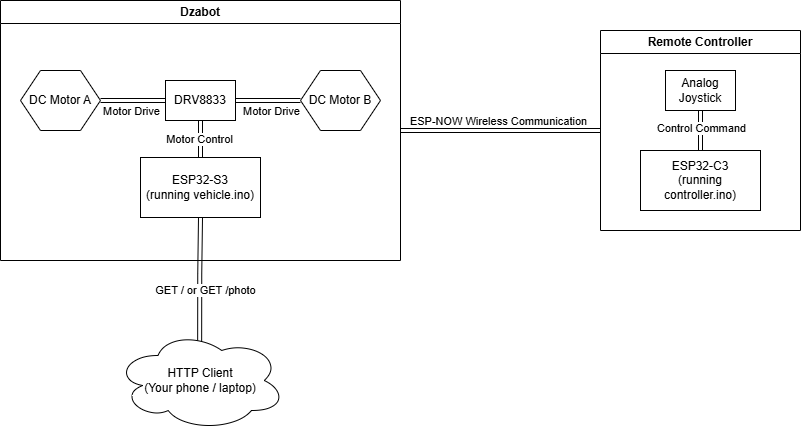
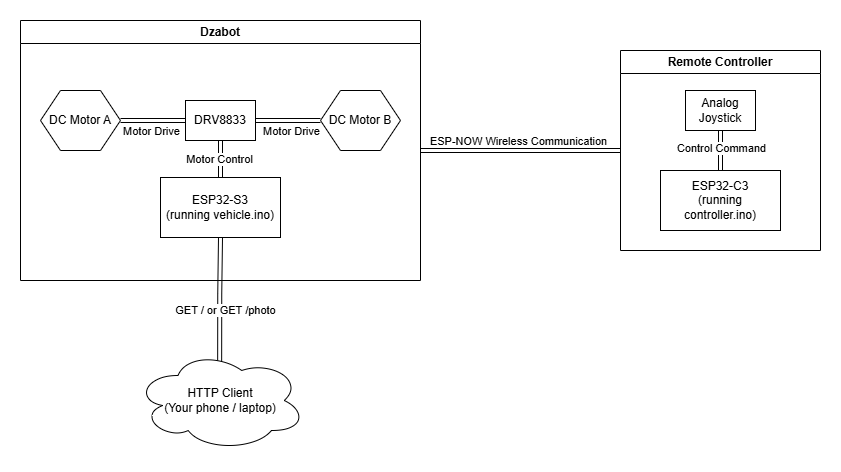
feat: update docs

diff --git a/README.md b/README.md
@@ -4,13 +4,15 @@ This repository contains a firmware for my hand-crafted robot together with the 
 
 ## Components
 
-- ESP32-S3 with OV5640 camera module   -> main computing unit on the robot
-- DRV8833 motor driver                 -> controlling 2 DC motors (rear-wheel drive)
-- 5x electrolytic capacitor 100uF      -> smoothing out the WiFi transmission current requirements
-- 4x 1.5V batteries + battery pack     -> power supply for both the MCU and driver
-- Analog joystick                      -> Input device for the robot control
-- ESP32-C3                             -> computing unit in the wireless controller
-- Jumper Wires + soderless breadboard  -> wiring and physical / electrical connections between the components
+| Component | Purpose |
+|---|---|
+| ESP32-S3 with OV5640 camera module | Main computing unit on the robot |
+| DRV8833 motor driver | Controlling 2 DC motors (rear-wheel drive) |
+| 5x electrolytic capacitor 100µF | Smoothing out the WiFi transmission current requirements |
+| 4x 1.5V batteries + battery pack | Power supply for both the MCU and driver |
+| Analog joystick | Input device for the robot control |
+| ESP32-C3 | Computing unit in the wireless controller |
+| Jumper wires + solderless breadboard | Wiring and physical/electrical connections between the components |
 
 ## Software Libraries
 
